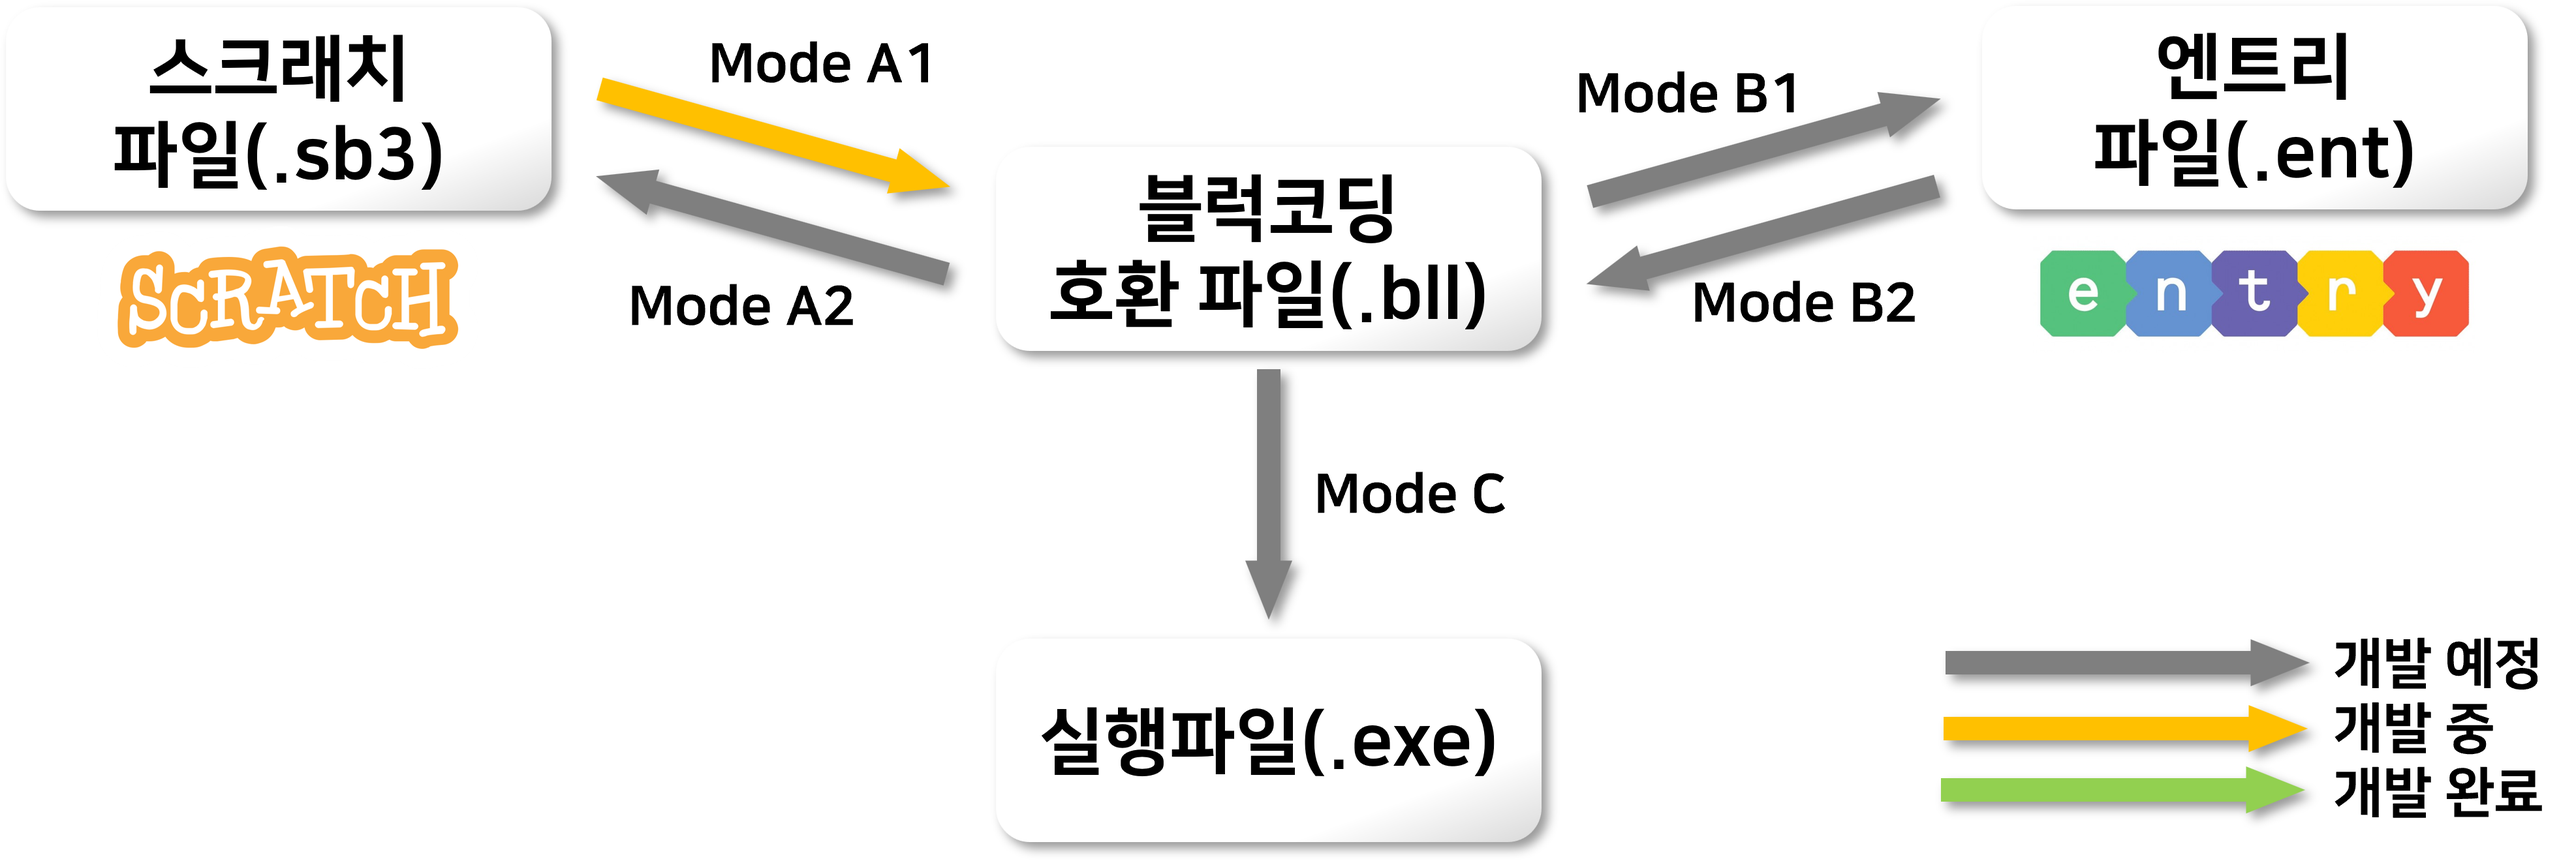
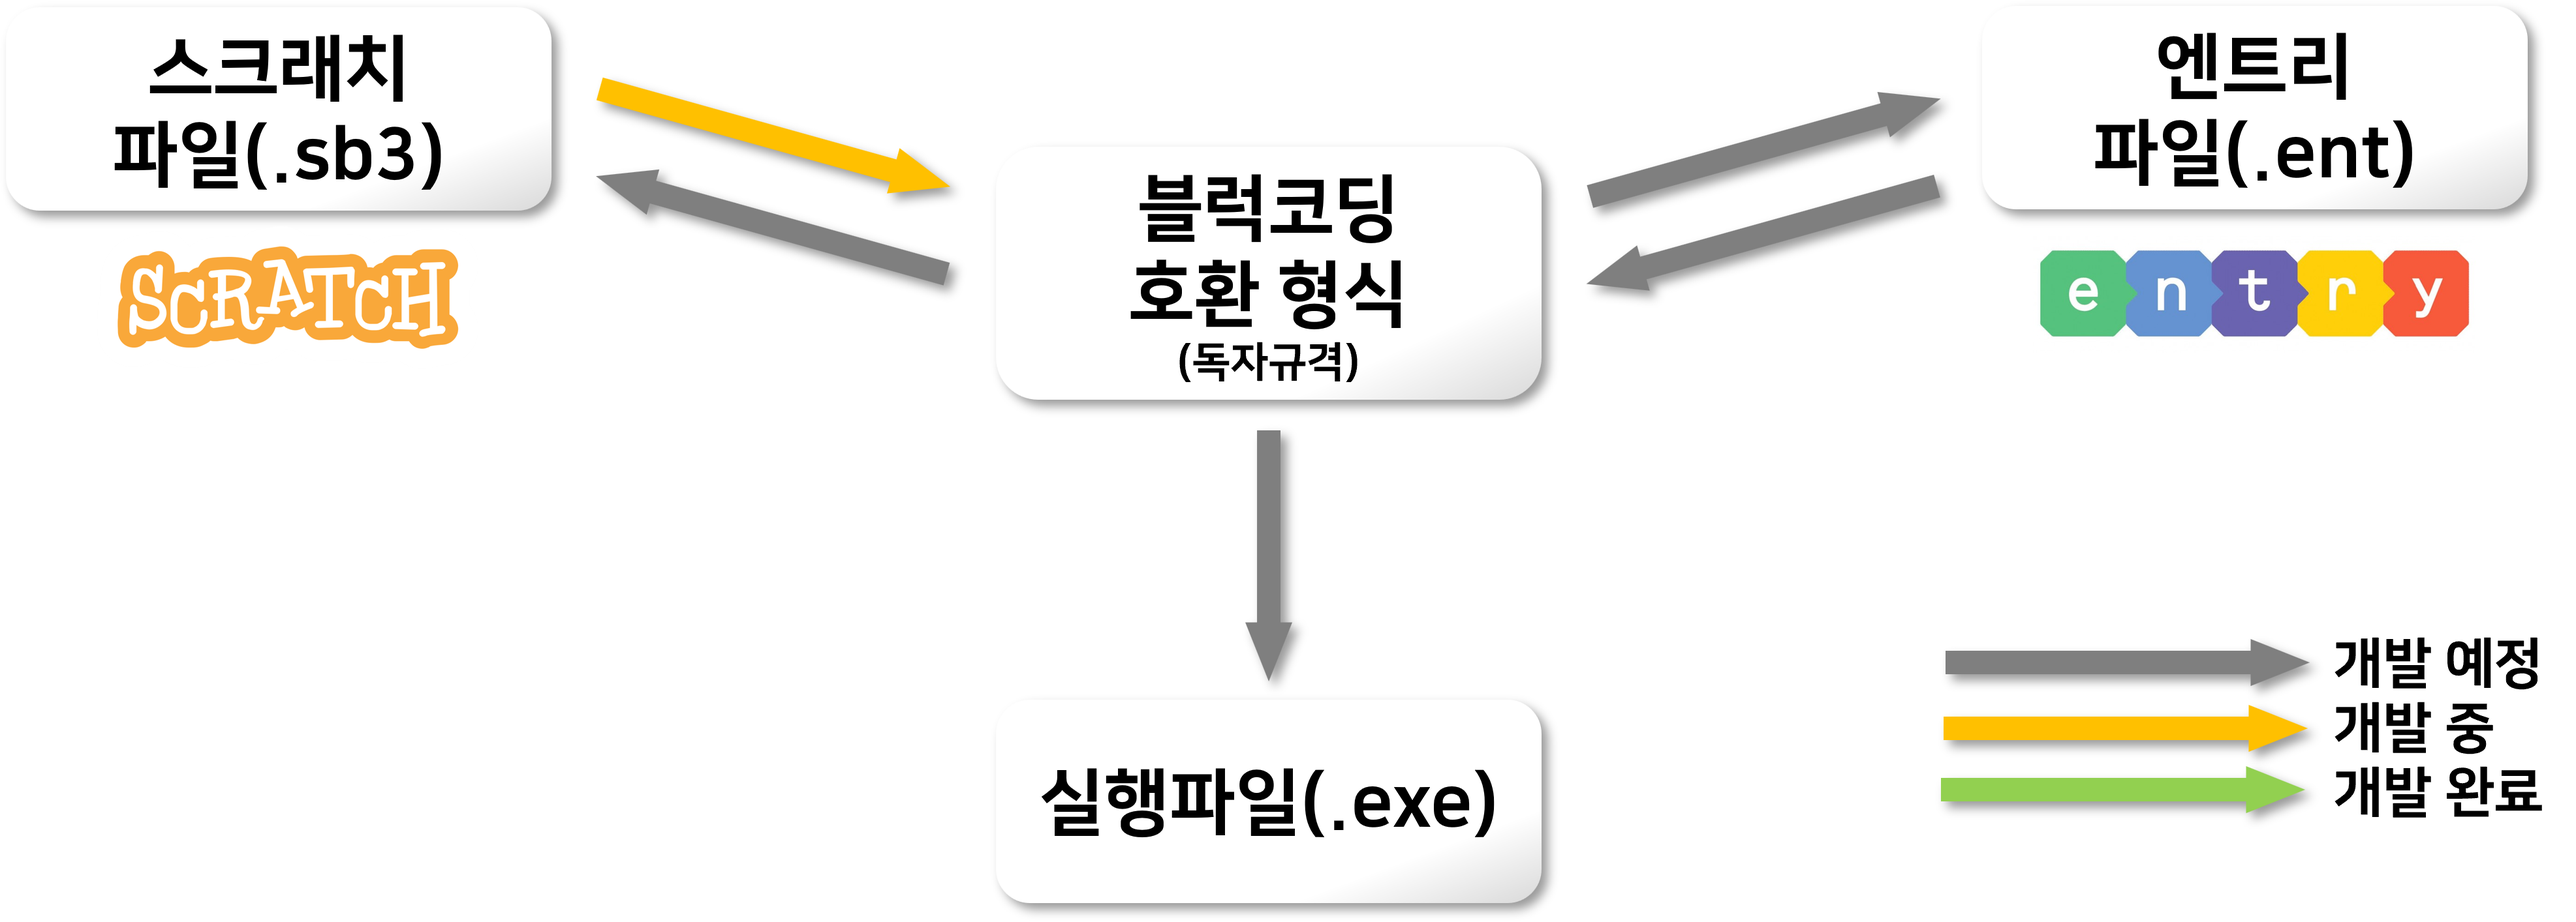
BLL규격 저장 생략

diff --git a/main.py b/main.py
@@ -1,36 +1,46 @@
 import Filesystem.file as FS
 import Scratch.s2b as S2B
 
-import sys, os, shutil
+import sys
 
-#python main.py mode=a1 input=test/test.rar output=test/out.rar
+#python main.py input=test/test.sb3 output=test/out.ent
 if __name__ == "__main__":
-    arg_mode, arg_in, arg_out = "", "", ""
+    arg_in, arg_out = "", ""
 
     #args읽기
     for i in sys.argv:
-        if i.startswith("mode="): arg_mode = i[5:]
         if i.startswith("input="): arg_in = i[6:]
         if i.startswith("output="): arg_out = i[7:]
-    if arg_mode == "": arg_mode = input("Converting mode: ")
     if arg_in == "": arg_in = input("Input file path: ")
     if arg_out == "": arg_out = input("Output file path: ")
-    arg_mode = arg_mode.lower()
 
     #output 지우기
-    folder = ".out"
-    os.makedirs(folder, exist_ok = True)
-    for filename in os.listdir(folder):
-        file_path = os.path.join(folder, filename)
-        if os.path.isfile(file_path) or os.path.islink(file_path):
-            os.unlink(file_path)
-        elif os.path.isdir(file_path):
-            shutil.rmtree(file_path)
+    FS.flush_folder(".out/sb3")
+    FS.flush_folder(".out/bll")
+    FS.flush_folder(".out/ent")
 
-    #변환작업 핸들링
-    if arg_mode == "a1":
+    bll = None #호환 형식
+
+    #인풋
+    if arg_in.endswith(".sb3"):
         file, src_json = FS.import_sb3(arg_in)
         bll, id_map = S2B.s2b(src_json)
-        FS.file_move_s2b(id_map, file, folder)
-        FS.export_bll(folder, bll.__dict__)
-        print("작업이 완료되었습니다.")
+        FS.file_move_s2b(id_map, file, ".out/bll")
+        print("BLL로의 변환이 완료되었습니다.")
+    
+    if arg_in.endswith(".ent"):
+        pass
+        #구현 예정
+
+    #아웃풋
+    if arg_out.endswith(".sb3"):
+        pass
+        #구현 예정
+    
+    if arg_out.endswith(".ent"):
+        pass
+        #구현 예정
+
+    if arg_out.endswith(".exe"):
+        pass
+        #구현 예정

diff --git a/BLL/bll.py b/BLL/bll.py
@@ -1,35 +1,40 @@
 class BLLfile:
-    _name = ""
-    _objs = [] #obj
-    _global_srcs = [] #src
-    _vars = [] #var
-    _casts = [] #cast
+    def __init__(self):
+        self._name = ""
+        self._objs = [] #obj
+        self._global_srcs = [] #src
+        self._vars = [] #var
+        self._casts = [] #cast
 
 class BLLobj:
-    _id = ""
-    _displayname = ""
-    _shape_idx = 1 #1-base
-    _srcs = [] #모양 src_id
-    _order = 0 #보이는 순서
-    _visible = True #숨기기,보이기
-    _position = [0, 0]
-    _size_percent = 100
-    _direction = 90
+    def __init__(self):
+        self._id = ""
+        self._displayname = ""
+        self._shape_idx = 1 #1-base
+        self._srcs = [] #모양 src_id
+        self._order = 0 #보이는 순서
+        self._visible = True #숨기기,보이기
+        self._position = [0, 0]
+        self._size_percent = 100
+        self._direction = 90
 
 class BLLsrc:
-    _id = ""
-    _type = "" #aud/img
-    _filepath = ""
-    _center = [0, 0] #todo, 회전중심이자, 좌표이동 시 중심 
+    def __init__(self):
+        self._id = ""
+        self._type = "" #aud/img
+        self._filepath = ""
+        self._center = [0, 0] #todo, 회전중심이자, 좌표이동 시 중심 
 
 class BLLvar:
-    _id = ""
-    _displayname = ""
-    _type = "" #var/list
-    _initial = "" #초기화값 number or str
-    _online = False #온라인 연동 여부
-    _dependency = "" #지역변수 obj_id / 빈 문자열 = global
+    def __init__(self):
+        self._id = ""
+        self._displayname = ""
+        self._type = "" #var/list
+        self._initial = "" #초기화값 number or str
+        self._online = False #온라인 연동 여부
+        self._dependency = "" #지역변수 obj_id / 빈 문자열 = global
 
 class BLLcast:
-    _id = ""
-    _displayname = ""
+    def __init__(self):
+        self._id = ""
+        self._displayname = ""

diff --git a/Filesystem/file.py b/Filesystem/file.py
@@ -1,4 +1,5 @@
 import zipfile, tarfile, sys, json
+import pickle, os, shutil
 
 #make tar
 def make_tar(path, tar_name):
@@ -7,6 +8,25 @@ def make_tar(path, tar_name):
             for file in files:
                 tar_handle.add(os.path.join(root, file))
 #make_tar('temp', 'output/output.ent')
+
+def to_dict(obj):
+    if isinstance(obj, (str, int, float, bool)) or obj is None:
+        return obj
+    elif isinstance(obj, list):
+        return [to_dict(item) for item in obj]
+    elif isinstance(obj, dict):
+        return {k: to_dict(v) for k, v in obj.items()}
+    else:
+        return {k: to_dict(v) for k, v in obj.__dict__.items()}
+
+def flush_folder(folder):
+    os.makedirs(folder, exist_ok = True)
+    for filename in os.listdir(folder):
+        file_path = os.path.join(folder, filename)
+        if os.path.isfile(file_path) or os.path.islink(file_path):
+            os.unlink(file_path)
+        elif os.path.isdir(file_path):
+            shutil.rmtree(file_path)
 
 #import sb3
 def import_sb3(path):
@@ -19,9 +39,5 @@ def file_move_s2b(id_map, inputf, output_path):
     for i in inputf.namelist():
         if i[-3:] not in ["svg", "png", "wav", "mp3"]:
             continue
-        inputf.getinfo(i).filename = output_path + "/" + id_map[i[:-4]] + i[-4:]
-        inputf.extract(i, f"{output_path}/src")
-
-#export bll
-def export_bll(path, bll):
-    open(path + "/code.json", "w").write(json.dumps(bll))
+        inputf.getinfo(i).filename = id_map[i[:-4]] + i[-4:] #확장자를 제외하고 id매핑
+        inputf.extract(i, f"{output_path}")

diff --git a/README.md b/README.md
@@ -4,7 +4,10 @@
 ## 구조도
 ![](doc/structure.png)
 
-## CLI 사용법
+## CLI의 사용
+
+### MOD 1: 스크래치 -> 엔트리
+[주의사항 확인](/doc/warning_s2b.md)
 ```
-python main.py mode=a1 input=in.sb3 output=out.bll
+python main.py input=in.sb3 output=out.ent
 ```

diff --git a/doc/warning_s2b.md b/doc/warning_s2b.md
@@ -1,0 +1,8 @@
+## 전체를 변환할 수 없는 경우
+발견된 사항이 없습니다.
+
+## 일부를 변환할 수 없는 경우
+발견된 사항이 없습니다.
+
+## 변환은 가능하나, 다른 문제가 생길 수 있는 경우
+발견된 사항이 없습니다.
